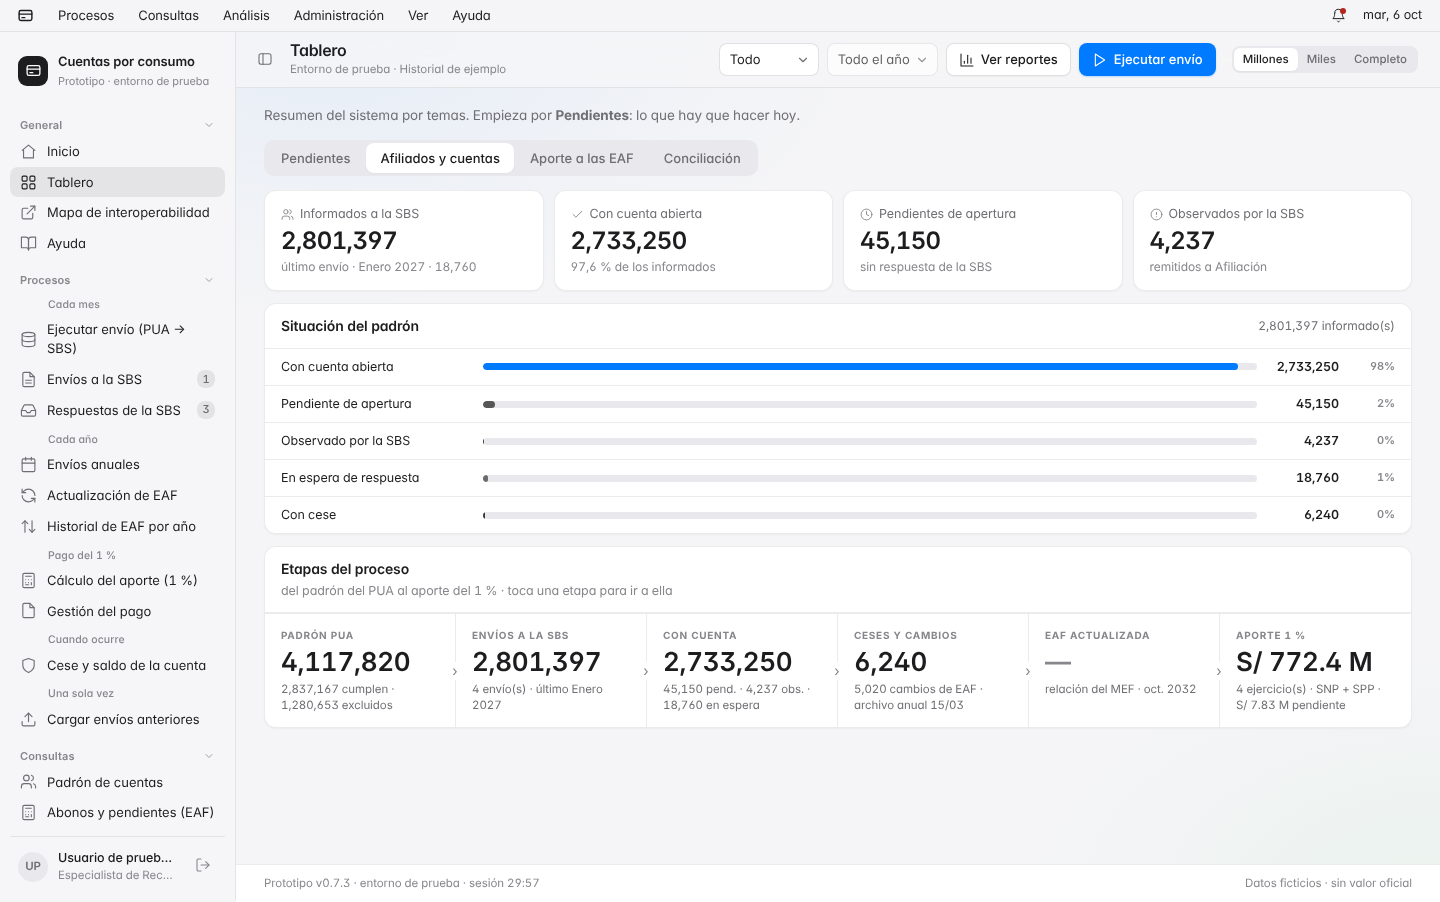
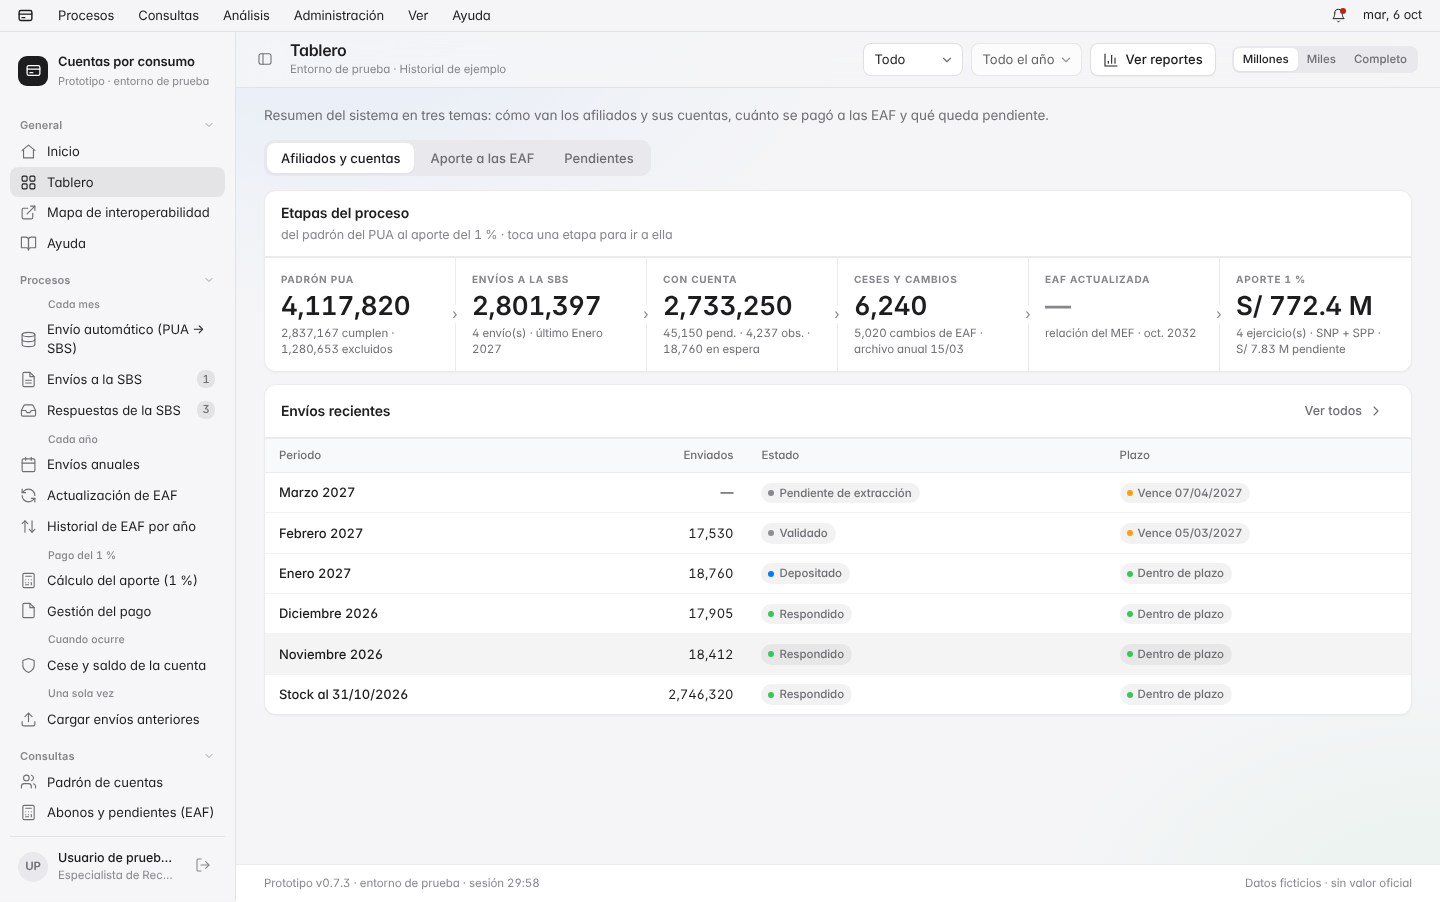
Tablero: una sola vista de afiliados, detalle por EAF y Pendientes al final
Afiliados y cuentas queda en Etapas del proceso más los envíos recientes
(se quitan las cifras repetidas y la Situación del padrón). Aporte a las
EAF suma el detalle por EAF del año fiscal elegido. Se quita la pestaña
Conciliación y Pendientes pasa al final.

Claude-Session: https://claude.ai/code/session_01KtUooYszfAysviNx7V1sMA

diff --git a/index.html b/index.html
@@ -1193,36 +1193,24 @@ M.inicio=()=>`<div class="inicio">${ic('home')}<h1>Hola, ${user.nombre}</h1><p>E
 const mShort=n=>money(n);
 M.tablero=()=>{const TF=state.tab||{anio:'',mes:''};const scope=e=>{if(!TF.anio)return true;const [dd,mm,yy]=e.corte.split('/');return yy===TF.anio&&(!TF.mes||+mm<=+TF.mes)};const ENV=envios.filter(scope);const anios=[...new Set(envios.map(e=>e.corte.slice(6)))].sort();const excTot=ENV.reduce((a,e)=>a+e.exc,0),noEnv=ENV.filter(e=>!['Respondido','Depositado'].includes(e.estado)).reduce((a,e)=>a+e.reg,0);const RESP=respuestas.filter(r=>r.rec&&ENV.some(e=>e.per===r.orig));const env=TF.anio?ENV.filter(e=>['Respondido','Depositado'].includes(e.estado)).reduce((a,e)=>a+e.reg,0):TOT.informados,eleg=env+noEnv,pua=eleg+excTot,cc=TF.anio?RESP.reduce((a,r)=>a+r.conf,0):TOT.conCuenta,act=cc-TOT.cese;const SC={pend:TF.anio?RESP.reduce((a,r)=>a+r.pend,0):TOT.pend,obs:TF.anio?RESP.reduce((a,r)=>a+r.obs,0):TOT.obs};SC.espera=Math.max(0,env-cc-SC.pend-SC.obs);const T=calcTot();const EL=EJERCICIOS[EJERCICIOS.length-1];const pag=EL?true:CS.step>=6;const pagTot=EL?EL.total:T.pagado;const ejPag=EL?EL.ej:CALC.ej;const pagSNP=r2(pagTot*(CALC.snp-CALC.cese)/(EL?EL.procede:T.procede));const es=state.eafStep||0;const nEnv=envios.filter(e=>e.fecha).length,ult=envios.filter(e=>e.fecha).slice(-1)[0];
  const pipe=[['padron','Padrón PUA',fmt(pua),pua?`${fmt(eleg)} cumplen · ${fmt(excTot)} excluidos`:'sin extracción todavía','extraccion'],['env','Envíos a la SBS',fmt(env),env?`${nEnv} envío(s) · último ${ult.per.replace('Primer envío · ','')}`:'ninguno aún','padron'],['cc','Con cuenta',fmt(cc),env?`${fmt(SC.pend)} pend. · ${fmt(SC.obs)} obs. · ${fmt(SC.espera)} en espera`:'a la espera de la SBS','respuestas'],['cese','Ceses y cambios',fmt(TOT.cese),`${fmt(CESES.cambios)} cambios de EAF · archivo anual 15/03`,'anuales'],['eaf','EAF actualizada',es>=4?fmt(CALC.pers-CALC.noReg):'—',es>=4?`SNP + SPP · ${fmt(76500)} cambiaron de EAF`:es>=1?'relación del MEF cargada (SNP + SPP)':'relación del MEF · oct. '+CALC.pago,'eaf'],['ap','Aporte 1 %',(()=>{const A=acumEj();return A.pagado?mShort(A.pagado):'—'})(),(()=>{const A=acumEj();return A.pagado?`${A.n} ejercicio(s) · SNP + SPP${A.pend?' · '+mShort(A.pend)+' pendiente':''}`:'SNP + SPP · se calcula en '+CALC.pago})(),'calculo']];
- const sit=[['Con cuenta abierta','var(--ok)',cc,'Con cuenta'],['Pendiente de apertura','var(--warn)',SC.pend,'Pendiente'],['Observado por la SBS','var(--crit)',SC.obs,'Observado'],['En espera de respuesta','var(--accent)',SC.espera,'Informado a SBS'],['Con cese','#7A271A',TOT.cese,'Cese']];
  const att=[];const apr=envios.filter(e=>e.estado==='Validado');if(apr.length)att.push(['up','Padrón validado sin depositar','Envíos a la SBS · '+apr.map(e=>e.per+' · vence '+e.plazo).join(', '),apr.length,'w','padron']);if(TOT.obs)att.push(['alert','Observados por subsanar','Respuestas de la SBS · listado remitido a Afiliación',TOT.obs,'c','respuestas']);if(TOT.pend)att.push(['clock','Sin respuesta de la SBS en seguimiento','Reclamar por oficio al vencer el plazo',TOT.pend,'w','respuestas']);const nerr=envios.reduce((a,e)=>a+(e.err||0),0);if(nerr)att.push(['alert','Errores de estructura por corregir en el PUA','Envío automático · lista remitida a Afiliación · se reenvían al corregirse',nerr,'w','padron']);const ca=casos.filter(c=>c.estado!=='Cerrado').length;if(ca)att.push(['clip','Casos abiertos','Documentos y casos · con seguimiento',ca,'','documentos']);if(P.step>=6&&P.exc)att.push(['users','Datos incompletos en el PUA','Afiliación corrige para el siguiente envío',P.exc,'','extraccion']);if(modo==='ejemplo')att.push(['users','Posibles fallecidos por confirmar','Afiliación · cruce con RENIEC',38,'','afiliados']);{const A=acumEj();if(A.pend)att.push(['alert','Aporte pendiente por prorrata','Cálculo del aporte · '+money(A.pend)+' · informar al MEF hasta el 31/01 · se paga con el presupuesto siguiente',1,'w','calculo'])}
  const MESES_T=['Ene','Feb','Mar','Abr','May','Jun','Jul','Ago','Set','Oct','Nov','Dic'];const EJS=ejerciciosAll();const A=acumEj();const anioF=state.tabAf||(EJS.length?EJS[EJS.length-1].pago:CALC.pago);const EF=EJS.find(e=>e.pago===+anioF);
  return `${ph('Tablero',TF.anio?`Filtro: ${TF.mes?MESES_T[+TF.mes-1]+' ':''}${TF.anio} · cifras acumuladas hasta ese corte`:'',rules('12','23','27'),`<div class="f" style="min-width:100px"><select class="in" id="tabAnio"><option value="">Todo</option>${anios.map(a=>`<option value="${a}" ${TF.anio===a?'selected':''}>${a}</option>`).join('')}</select></div><div class="f" style="min-width:100px"><select class="in" id="tabMes" ${TF.anio?'':'disabled'}><option value="">Todo el año</option>${MESES_T.map((mm,i)=>`<option value="${i+1}" ${TF.mes==String(i+1)?'selected':''}>hasta ${mm}</option>`).join('')}</select></div><button class="btn" data-go="reportes">${ic('chart')}Ver reportes</button>`)}
- <div data-pt="Pendientes">
-  <div class="card" style="margin-bottom:12px"><div class="ch"><div><h3>Requiere atención</h3><div class="sub">toca una fila para ir a la pantalla donde se resuelve</div></div></div><div>${att.length?att.map(([i,t,sub,n,cls,go])=>`<div class="att" data-go="${go}"><div class="ai">${ic(i)}</div><div class="at"><b>${t}</b><span>${sub}</span></div><div class="ab ${cls}">${fmt(n)}</div></div>`).join(''):`<div style="padding:16px">${emptyBox('Sin pendientes','Todo está al día.')}</div>`}</div></div>
- <div class="grid2">
-  ${(()=>{const cp=curPer();const es=state.eafStep||0;const R=[['Padrón mensual · '+cp.per.replace('Primer envío · ',''),P.step>=6?'periodo cerrado':P.running||P.auto?'en ejecución':STG[Math.min(P.step,5)][0],P.step,6,'extraccion'],['Actualización de EAF · ejercicio '+CALC.ej,es>=5?'completada':es>=1?'relación del MEF cargada':state.mefFile?'archivo detectado':'se espera la relación del MEF · 31/10/'+CALC.pago,es,5,'eaf'],['Cálculo del aporte · ejercicio '+CALC.ej,CS.step>=6?'pagado · '+money(calcTot().total):CS.presuDoc?(CS.step?'paso '+CS.step+' de 6':'listo para ejecutar'):'falta el presupuesto '+CALC.pago,CS.step,6,'calculo']];return `<div class="card"><div class="ch"><div><h3>Procesos en curso</h3></div><span class="sm muted">${EJERCICIOS.length} ejercicio(s) cerrado(s)</span></div><div>${R.map(([t,sub,n,m,go])=>`<div class="att" data-go="${go}"><div class="at"><b>${t}</b><span>${sub}</span><div class="pbar"><i style="width:${Math.min(100,n/m*100)}%"></i></div></div><div class="ab ${n>=m?'':'w'}">${Math.min(n,m)}/${m}</div></div>`).join('')}</div></div>`})()}
+ <div data-pt="Afiliados y cuentas">
+ <div class="card" style="margin-bottom:12px"><div class="ch"><div><h3>Etapas del proceso</h3><div class="sub">del padrón del PUA al aporte del 1 % · toca una etapa para ir a ella</div></div></div><div class="pipe">${pipe.map(([k,l,v,sub,go])=>`<div data-go="${go}"><div class="pl">${l}</div><div class="pv ${v==='—'?'dim':''}">${v}</div><div class="ps">${sub}</div></div>`).join('')}</div></div>
   <div class="card"><div class="ch"><h3>Envíos recientes</h3><button class="btn ghost sm" data-go="padron">Ver todos ${ic('chev')}</button></div><div class="tw"><table><thead><tr><th>Periodo</th><th class="n">Enviados</th><th>Estado</th><th>Plazo</th></tr></thead><tbody>
   ${envios.slice().reverse().map(e=>`<tr><td><b style="font-weight:500">${e.per}</b></td><td class="n">${e.estado==='Pendiente de extracción'?'—':fmt(e.reg)}</td><td>${st(e.estado)}</td><td>${e.fecha?plazo(true):plazo(false,e.plazo)}</td></tr>`).join('')}
   </tbody></table></div></div>
  </div>
- </div>
- <div data-pt="Afiliados y cuentas">
- <div class="kpis">
-  <div class="kpi"><div><div class="l">Informados a la SBS</div><div class="v">${fmt(env)}</div><div class="s">${env?(()=>{const u=ENV.filter(e=>e.fecha).slice(-1)[0];return u?'último envío · '+u.per.replace('Primer envío · ','').replace('Stock al ','stock ')+' · '+fmt(u.reg):''})():'sin envíos todavía'}</div></div></div>
-  <div class="kpi"><div><div class="l">Con cuenta abierta</div><div class="v">${fmt(cc)}</div><div class="s">${pct(cc,env)} de los informados</div></div></div>
-  <div class="kpi"><div><div class="l">Pendientes de apertura</div><div class="v">${fmt(SC.pend)}</div><div class="s">sin respuesta de la SBS</div></div></div>
-  <div class="kpi"><div><div class="l">Observados por la SBS</div><div class="v">${fmt(SC.obs)}</div><div class="s">remitidos a Afiliación</div></div></div>
- </div>
-  <div class="card" style="margin-bottom:12px"><div class="ch"><div><h3>Situación del padrón</h3></div><span class="sm muted">${fmt(env)} informado(s)</span></div><div>${env?sit.map(([t,col,n,fk])=>`<div class="sit"><span>${t}</span><div class="tr"><i style="width:${env?Math.min(100,n/env*100):0}%;background:${col}"></i></div><span class="n">${fmt(n)}</span><span class="p" style="color:${col}">${env?Math.round(n/env*100):0}%</span></div>`).join(''):`<div style="padding:16px">${emptyBox('Sin afiliados','Ejecuta el primer envío.')}</div>`}</div></div>
- <div class="card" style="margin-bottom:12px"><div class="ch"><div><h3>Etapas del proceso</h3><div class="sub">del padrón del PUA al aporte del 1 % · toca una etapa para ir a ella</div></div></div><div class="pipe">${pipe.map(([k,l,v,sub,go])=>`<div data-go="${go}"><div class="pl">${l}</div><div class="pv ${v==='—'?'dim':''}">${v}</div><div class="ps">${sub}</div></div>`).join('')}</div></div>
- </div>
  <div data-pt="Aporte a las EAF">
  <div class="card"><div class="ch"><div><h3>Aportes transferidos a las EAF</h3><div class="sub">por año fiscal</div></div><div class="acts"><select class="in" id="tabAf" style="min-height:30px">${(EJS.length?EJS:[{pago:CALC.pago,ej:CALC.ej}]).map(e=>`<option value="${e.pago}" ${e.pago===+anioF?'selected':''}>Año fiscal ${e.pago} · ejercicio ${e.ej}</option>`).join('')}</select><button class="btn sm" data-go="abonos">Abonos y pendientes ${ic('chev')}</button></div></div>
  <div class="kpis" style="padding:12px 16px 0"><div class="kpi"><div><div class="l">Pagado a las EAF · ${anioF}</div><div class="v" style="color:var(--ok)">${EF&&EF.total?money(EF.total):'—'}</div><div class="s">${EF&&EF.total?'ejercicio '+EF.ej+' · '+(EF.factor<1?'prorrata '+pctf(EF.factor):'100 %')+(EF.regular?' · incluye regularización':''):'ejercicio '+(EF?EF.ej:CALC.ej)+' en curso'}</div></div></div><div class="kpi"><div><div class="l">Pendiente · ${anioF}</div><div class="v ${EF&&EF.total&&EF.pendTotal?'dn':''}">${EF&&EF.total?(EF.pendTotal?money(EF.pendTotal):'—'):'—'}</div><div class="s">${EF&&EF.total&&EF.pendTotal?'al MEF hasta el '+(EF.fMef||'31/01/'+(EF.pago+1)):'sin prorrata'}</div></div></div><div class="kpi"><div><div class="l">Acumulado pagado</div><div class="v">${A.pagado?money(A.pagado):'—'}</div><div class="s">${A.n} ejercicio(s)</div></div></div><div class="kpi"><div><div class="l">Pendiente vigente</div><div class="v ${A.pend?'dn':''}">${A.pend?money(A.pend):'—'}</div><div class="s">${A.pend?'por prorrata':'todo acreditado'}</div></div></div></div>
+  ${EF&&EF.porEaf&&EF.porEaf.length?`<div class="tw" style="margin-top:12px"><table class="money dense"><thead><tr><th>EAF</th><th class="n">Personas</th><th class="n">Aporte 1 %</th><th class="n">Pagado</th><th class="n">Pendiente</th></tr></thead><tbody>${EF.porEaf.map(([e,pp,apo,pg,pd,rg])=>`<tr><td>${e}</td><td class="n">${fmt(pp)}</td><td class="n">${money(apo)}</td><td class="n"><b>${EF.total?money(pg+rg):'—'}</b></td><td class="n ${pd&&EF.total?'dn':'faint'}">${EF.total?(pd?money(pd):'—'):'—'}</td></tr>`).join('')}<tr class="tot"><td><b>Total</b></td><td class="n"><b>${fmt(EF.procede)}</b></td><td class="n"><b>${money(EF.aporte)}</b></td><td class="n"><b>${EF.total?money(EF.total):'—'}</b></td><td class="n"><b>${EF.total&&EF.pendTotal?money(EF.pendTotal):'—'}</b></td></tr></tbody></table></div>`:''}
  </div>
  </div>
- <div data-pt="Conciliación">
- ${(()=>{const C=conciliarGlobal();if(!C.length)return `<div class="card"><div class="cb">${emptyBox('Sin controles todavía','Se concilia cuando llega la respuesta de la SBS.')}</div></div>`;const bad=C.filter(c=>!c.ok).length;return `<div class="card"><div class="ch"><div><h3>Conciliación</h3><div class="sub">${bad?bad+' con diferencia':'todo cuadra · '+C.length+' controles'} · lo enviado frente a lo que respondió la SBS</div></div><span><span class="st ${bad?'warn':'ok'}">${bad?'Por conciliar':'Conciliado'}</span></span></div><div class="tw"><table class="money"><thead><tr><th>Control</th><th class="n">Esperado</th><th class="n">Obtenido</th><th class="n">Diferencia</th><th>Estado</th></tr></thead><tbody>${C.map(c=>`<tr><td><span data-tip="${c.det}">${c.t}</span></td><td class="n">${fmt(c.izq)}</td><td class="n">${fmt(c.der)}</td><td class="n">${c.dif?fmt(c.dif):'—'}</td><td>${c.ok?'<span class="st ok">Conciliado</span>':'<span class="st warn">Por conciliar</span>'}</td></tr>`).join('')}</tbody></table></div></div>`})()}
+ <div data-pt="Pendientes">
+  <div class="card" style="margin-bottom:12px"><div class="ch"><div><h3>Requiere atención</h3><div class="sub">toca una fila para ir a la pantalla donde se resuelve</div></div></div><div>${att.length?att.map(([i,t,sub,n,cls,go])=>`<div class="att" data-go="${go}"><div class="ai">${ic(i)}</div><div class="at"><b>${t}</b><span>${sub}</span></div><div class="ab ${cls}">${fmt(n)}</div></div>`).join(''):`<div style="padding:16px">${emptyBox('Sin pendientes','Todo está al día.')}</div>`}</div></div>
+  ${(()=>{const cp=curPer();const es=state.eafStep||0;const R=[['Padrón mensual · '+cp.per.replace('Primer envío · ',''),P.step>=6?'periodo cerrado':P.running||P.auto?'en ejecución':STG[Math.min(P.step,5)][0],P.step,6,'extraccion'],['Actualización de EAF · ejercicio '+CALC.ej,es>=5?'completada':es>=1?'relación del MEF cargada':state.mefFile?'archivo detectado':'se espera la relación del MEF · 31/10/'+CALC.pago,es,5,'eaf'],['Cálculo del aporte · ejercicio '+CALC.ej,CS.step>=6?'pagado · '+money(calcTot().total):CS.presuDoc?(CS.step?'paso '+CS.step+' de 6':'listo para ejecutar'):'falta el presupuesto '+CALC.pago,CS.step,6,'calculo']];return `<div class="card"><div class="ch"><div><h3>Procesos en curso</h3></div><span class="sm muted">${EJERCICIOS.length} ejercicio(s) cerrado(s)</span></div><div>${R.map(([t,sub,n,m,go])=>`<div class="att" data-go="${go}"><div class="at"><b>${t}</b><span>${sub}</span><div class="pbar"><i style="width:${Math.min(100,n/m*100)}%"></i></div></div><div class="ab ${n>=m?'':'w'}">${Math.min(n,m)}/${m}</div></div>`).join('')}</div></div>`})()}
  </div>`};
 
 // ======================= Padrón mensual + proceso =======================
@@ -2465,7 +2453,7 @@ function renderNav(){$('#navItems').innerHTML=NAV.map(([g,items])=>{const ab=nav
  document.body.classList.toggle('navtop',state.nav==='top');
  renderMenubar()}
 // Para qué sirve cada pantalla, en una línea y en palabras simples
-const PURP={tablero:'Resumen del sistema por temas. Empieza por <b>Pendientes</b>: lo que hay que hacer hoy.',
+const PURP={tablero:'Resumen del sistema en tres temas: cómo van los afiliados y sus cuentas, cuánto se pagó a las EAF y qué queda pendiente.',
  mapa:'Quién envía qué a quién: ONP, SBS, MEF, SUNAT y las EAF.',
  extraccion:'Cómo hace el sistema, cada mes, el envío del padrón del PUA a la SBS (ONP → SBS).',
  historico:'Solo una vez, al empezar: sube los archivos que ya se intercambiaron con la SBS antes de usar el sistema.',

diff --git a/README.md b/README.md
@@ -34,7 +34,7 @@ En Cuentas por consumo cada pantalla empieza con una línea que dice para qué s
 
 ## Inicio, Tablero y Reportes
 
-Al entrar al sistema se abre **Inicio**, sin cifras: solo el saludo y el menú. El **Tablero** se divide en pestañas: *Pendientes* (lo que hay que hacer, procesos en curso y envíos recientes), *Afiliados y cuentas* (situación del padrón y etapas del proceso), *Aporte a las EAF* y *Conciliación*. **Reportes** tiene una pestaña por tema: *Del mes*, *Envíos*, *Respuestas de la SBS*, *Plazos*, *Aporte por ejercicio* y *Por afiliado*.
+Al entrar al sistema se abre **Inicio**, sin cifras: solo el saludo y el menú. El **Tablero** tiene tres pestañas: *Afiliados y cuentas* (las etapas del proceso, del padrón del PUA al aporte, y los envíos recientes), *Aporte a las EAF* (pagado y pendiente por año fiscal, con el detalle por EAF) y *Pendientes* (lo que requiere atención y los procesos en curso). **Reportes** tiene una pestaña por tema: *Del mes*, *Envíos*, *Respuestas de la SBS*, *Plazos*, *Aporte por ejercicio* y *Por afiliado*.
 
 **Envío automático (PUA → SBS)** (antes «Ejecutar envío») avisa arriba que ese proceso lo hace el sistema según las reglas RN-01 a RN-08, y enlaza a donde se revisa el resultado: *Envíos a la SBS*, *Respuestas de la SBS* y *Avisos*. Sus botones dicen «Simular» porque solo sirven para la prueba.
 
